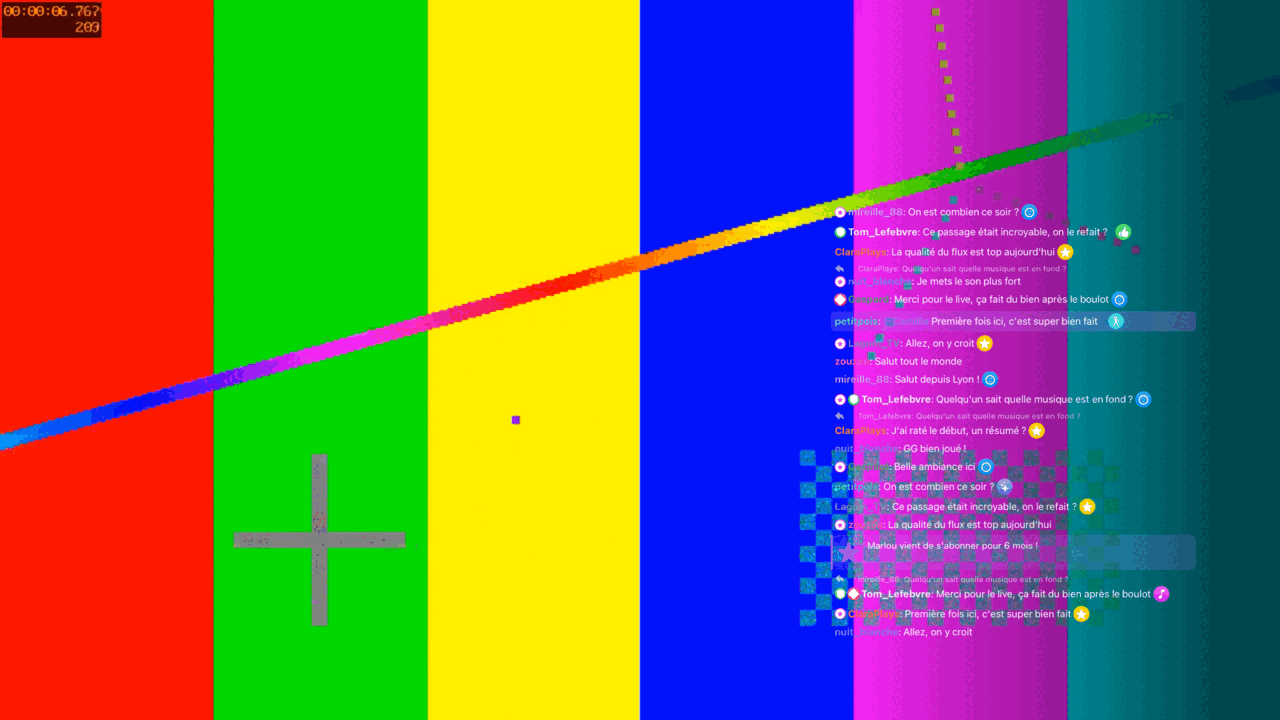
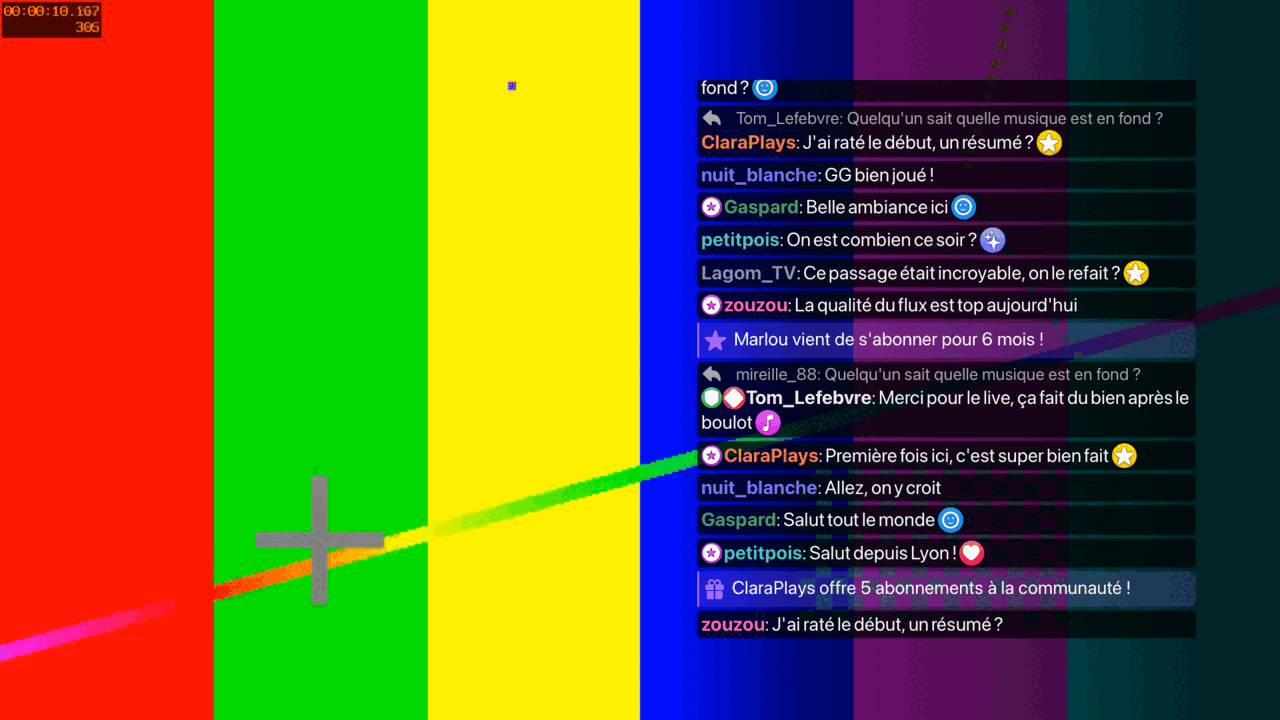
fix: readable tvOS chat over the picture (larger text, wider panel) and a fresh capture

diff --git a/apple/TV/TVPlayer.swift b/apple/TV/TVPlayer.swift
@@ -26,7 +26,7 @@ struct TVPlayerScreen: View {
                 // Over the picture, on any frame: a dark scrim behind the column, a dark backing and a shadow behind every line, and the nick colours
                 // the shared mapper already made readable on a dark background (the Kotlin `NickContrast` logic).
                 ChatList(lines: playback.chat, settings: playback.chatSettings, overVideo: true, onReply: nil)
-                    .frame(width: 600)
+                    .frame(width: 760)
                     .padding(.vertical, 60).padding(.horizontal, 40)
                     .background(LinearGradient(stops: [.init(color: .clear, location: 0), .init(color: .black.opacity(0.55), location: 0.25), .init(color: .black.opacity(0.85), location: 1)], startPoint: .leading, endPoint: .trailing))
                     .allowsHitTesting(false)

diff --git a/apple/Shared/Views/ChatViews.swift b/apple/Shared/Views/ChatViews.swift
@@ -72,7 +72,12 @@ struct ChatLineView: View {
         case .large: 17
         default: 15
         }
+        #if os(tvOS)
+        // Read from the couch: the same in-app size setting, drawn about twice as large.
+        return base * scale * 1.9
+        #else
         return base * scale
+        #endif
     }
 
     private var gap: CGFloat {
